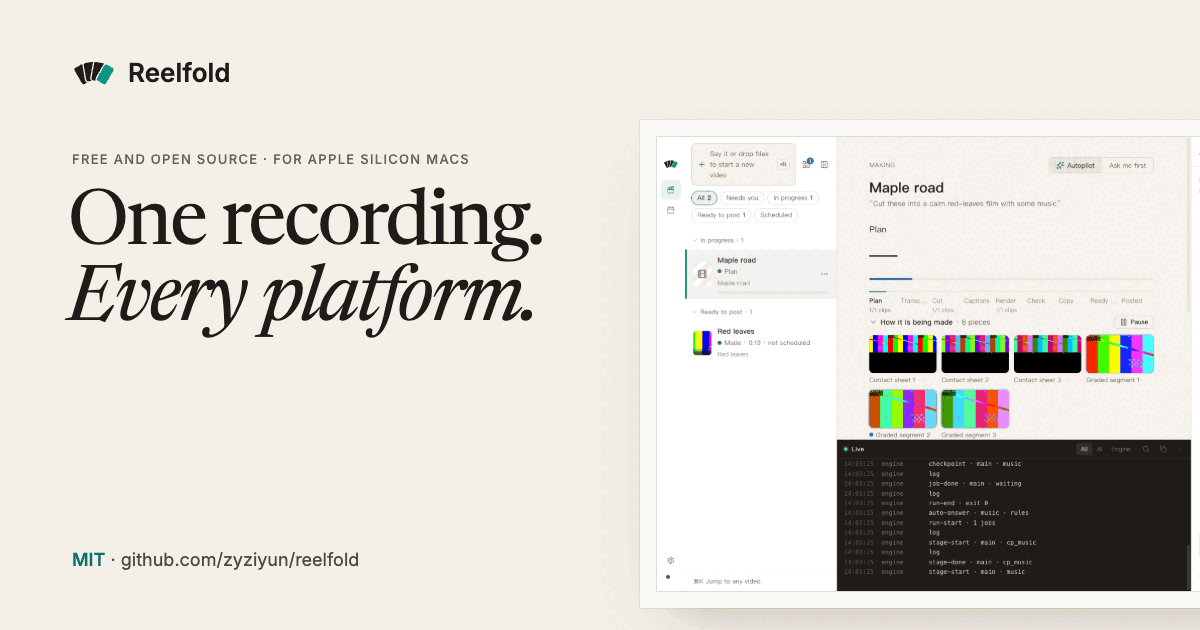
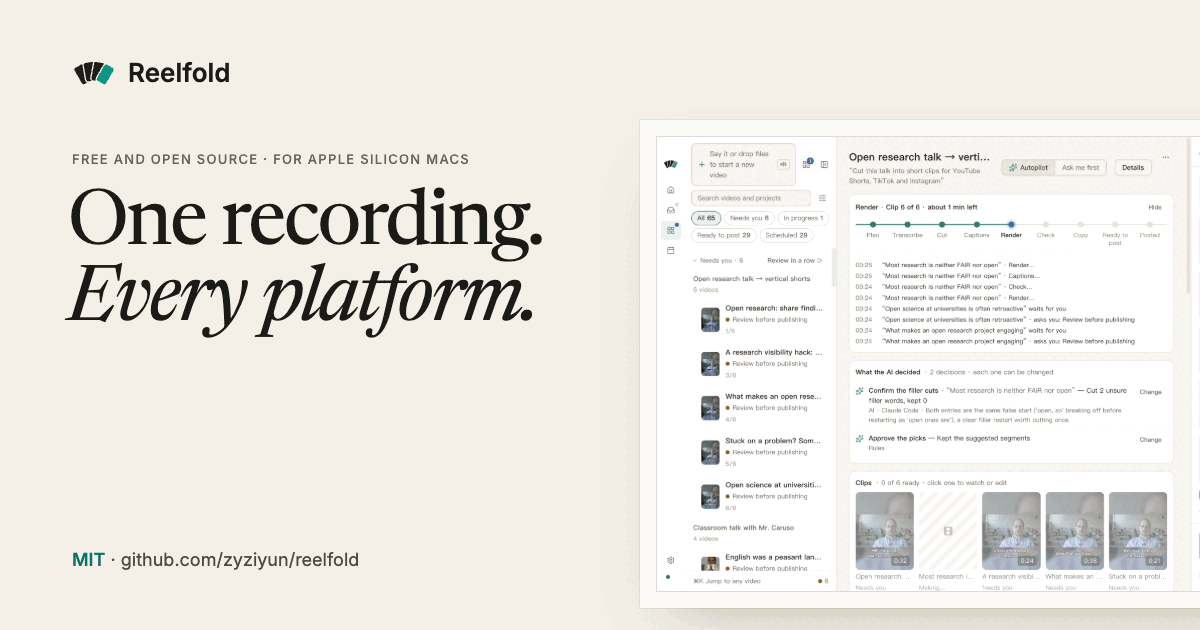
feat(site): real 2x screenshots on CC0 footage, Home in its slot

Changed region(s): [[0.555, 0.2413, 1.0, 0.9651]]

diff --git a/apps/site/src/lib/images.ts b/apps/site/src/lib/images.ts
@@ -1,43 +1,44 @@
-// Image registry: per-language app screenshots and demo sheets (zh has its own UI language and the Chinese
-// material; en/fr/es use the English app and the English demo batch).
+// Image registry: per-language app screenshots and output sheets. zh shows the app in Chinese with Chinese projects;
+// en / fr / es show the English app. Every screenshot comes from a desk build on an isolated demo profile: real engine
+// runs (Claude Code as the AI) on CC0 / public-domain footage (credits: README "Image credits"), never a creator's own
+// footage. Sources are 2x (2880x1800) WebP; astro:assets makes the AVIF / WebP sizes.
 import type { ImageMetadata } from 'astro';
-import makingEn from '../assets/app/making-en.png';
-import makingZh from '../assets/app/making-zh.png';
-import editorEn from '../assets/app/editor-en.png';
-import editorZh from '../assets/app/editor-zh.png';
-import review from '../assets/app/review.webp';
+import makingEn from '../assets/app/making-en.webp';
+import makingZh from '../assets/app/making-zh.webp';
+import editorEn from '../assets/app/editor-en.webp';
+import editorZh from '../assets/app/editor-zh.webp';
 import publishEn from '../assets/app/publish-en.webp';
 import publishZh from '../assets/app/publish-zh.webp';
-import texteditEn from '../assets/app/textedit-en.png';
-import texteditZh from '../assets/app/textedit-zh.png';
-import typing from '../assets/app/typing.png';
-import longform from '../assets/demos/longform-slices.jpg';
+import texteditEn from '../assets/app/textedit-en.webp';
+import texteditZh from '../assets/app/textedit-zh.webp';
+import reviewEn from '../assets/app/review-en.webp';
+import reviewZh from '../assets/app/review-zh.webp';
+import projectsEn from '../assets/app/projects-en.webp';
+import projectsZh from '../assets/app/projects-zh.webp';
+import courseEn from '../assets/app/course-en.webp';
+import courseZh from '../assets/app/course-zh.webp';
+import homeDashEn from '../assets/app/home-dash-en.webp';
+import homeDashZh from '../assets/app/home-dash-zh.webp';
+import follow from '../assets/demos/follow.webp';
 import talkinghead from '../assets/demos/talkinghead.jpg';
-import longformEn from '../assets/demos/longform-slices-en.jpg';
-import talkingheadEn from '../assets/demos/talkinghead-en.jpg';
+import longform from '../assets/demos/longform.jpg';
 import type { Lang } from '../i18n';
 
 const SETS = {
   making: { en: makingEn, zh: makingZh },
   editor: { en: editorEn, zh: editorZh },
-  review: { en: review, zh: review },
+  review: { en: reviewEn, zh: reviewZh },
   publish: { en: publishEn, zh: publishZh },
   textedit: { en: texteditEn, zh: texteditZh },
-  typing: { en: typing, zh: typing },
-  longform: { en: longformEn, zh: longform },
-  talkinghead: { en: talkingheadEn, zh: talkinghead },
-  course: { en: makingEn, zh: makingZh },
-  follow: { en: editorEn, zh: editorZh },
+  projects: { en: projectsEn, zh: projectsZh },
+  course: { en: courseEn, zh: courseZh },
+  follow: { en: follow, zh: follow },
+  longform: { en: longform, zh: longform },
+  talkinghead: { en: talkinghead, zh: talkinghead },
 } satisfies Record<string, { en: ImageMetadata; zh: ImageMetadata }>;
-// ┌─ HOME DASHBOARD SCREENSHOT SLOT ───────────────────────────────────────────────────────────────────────────┐
-// │ The Home dashboard (Inbox / Running / Going out today) is in development. When it ships:                     │
-// │  1. capture it at 1440×900, light theme, from a built app with an isolated profile and the e2e fixtures      │
-// │     (never a real profile), save as src/assets/app/home-dash-en.png and home-dash-zh.png;                    │
-// │  2. import both here and set HOME_DASH = { en: …, zh: … };                                                    │
-// │  3. update `next.*` in src/i18n/{en,zh,fr,es}.ts (it then reads as shipped, not "Coming next").              │
-// │ While HOME_DASH is null, the "Coming next: Home" section on the home page shows its text only.               │
-// └──────────────────────────────────────────────────────────────────────────────────────────────────────────────┘
-export const HOME_DASH: { en: ImageMetadata; zh: ImageMetadata } | null = null;
+
+// The Home dashboard (Inbox / Running / Going out today), shown in the "New: Home" section of the home page.
+export const HOME_DASH: { en: ImageMetadata; zh: ImageMetadata } | null = { en: homeDashEn, zh: homeDashZh };
 export const homeDash = (lang: Lang): ImageMetadata | null => (HOME_DASH ? (lang === 'zh' ? HOME_DASH.zh : HOME_DASH.en) : null);
 
 export type ImgKey = keyof typeof SETS;
